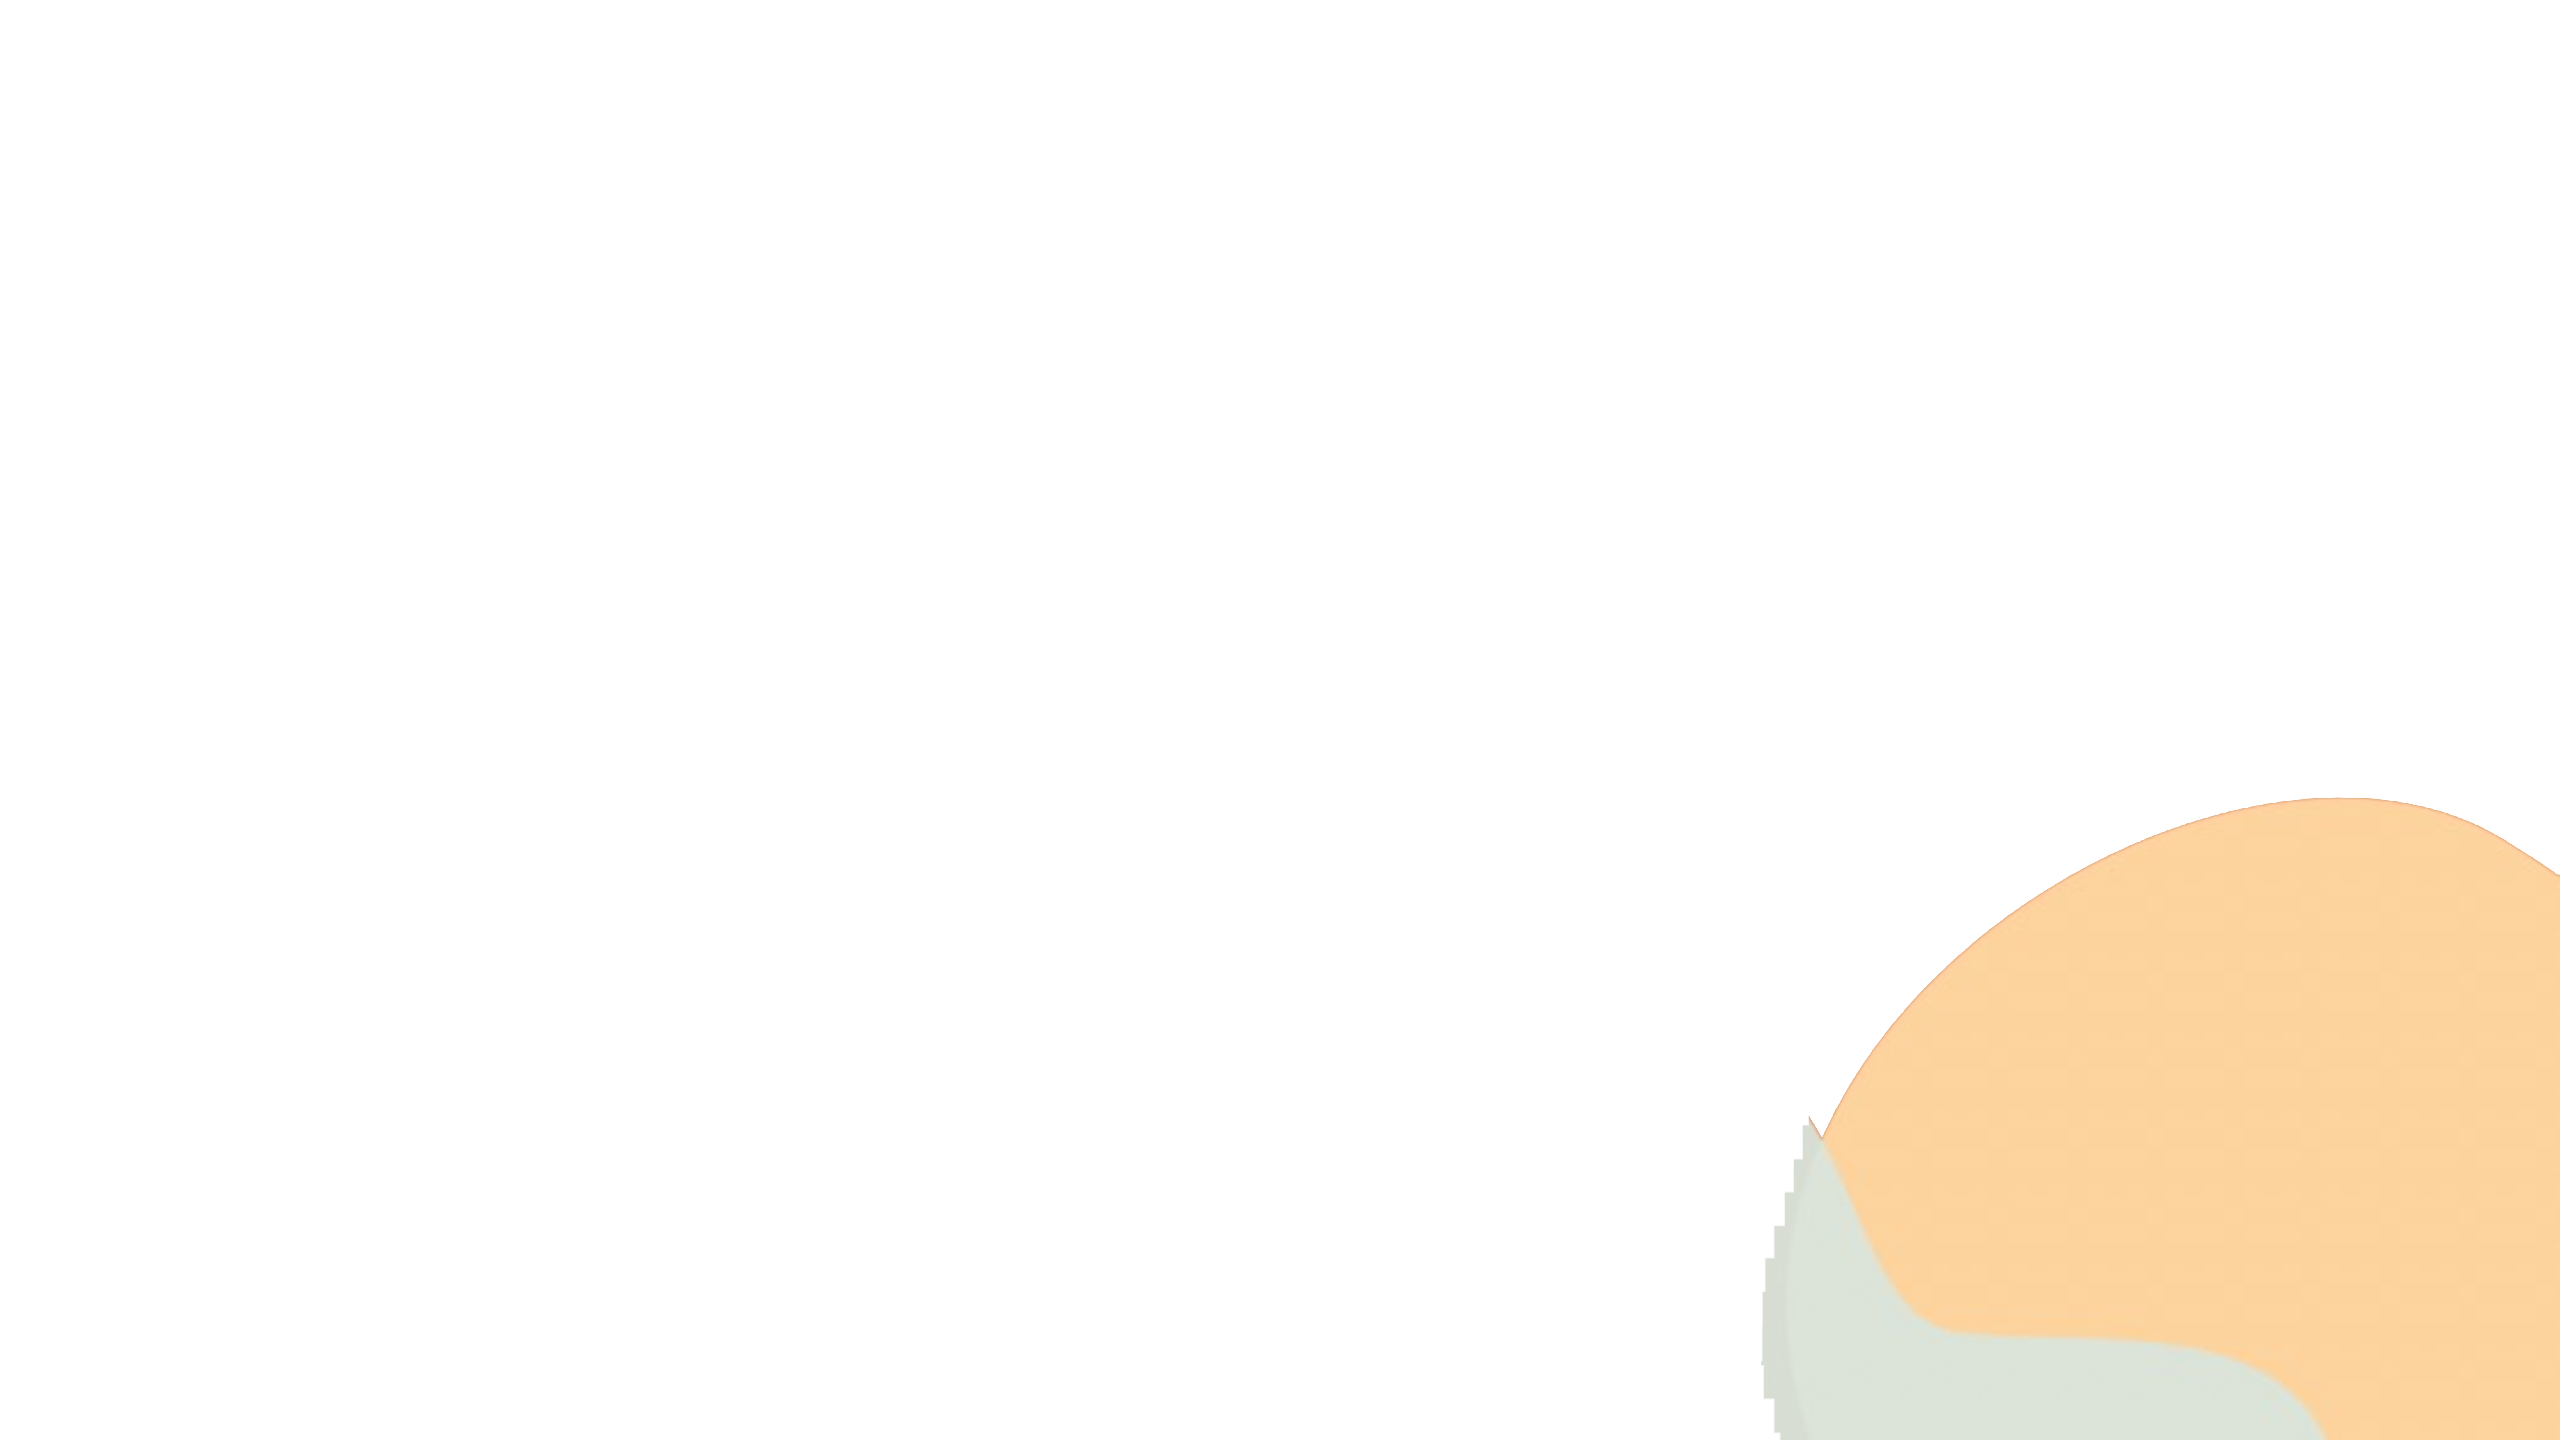
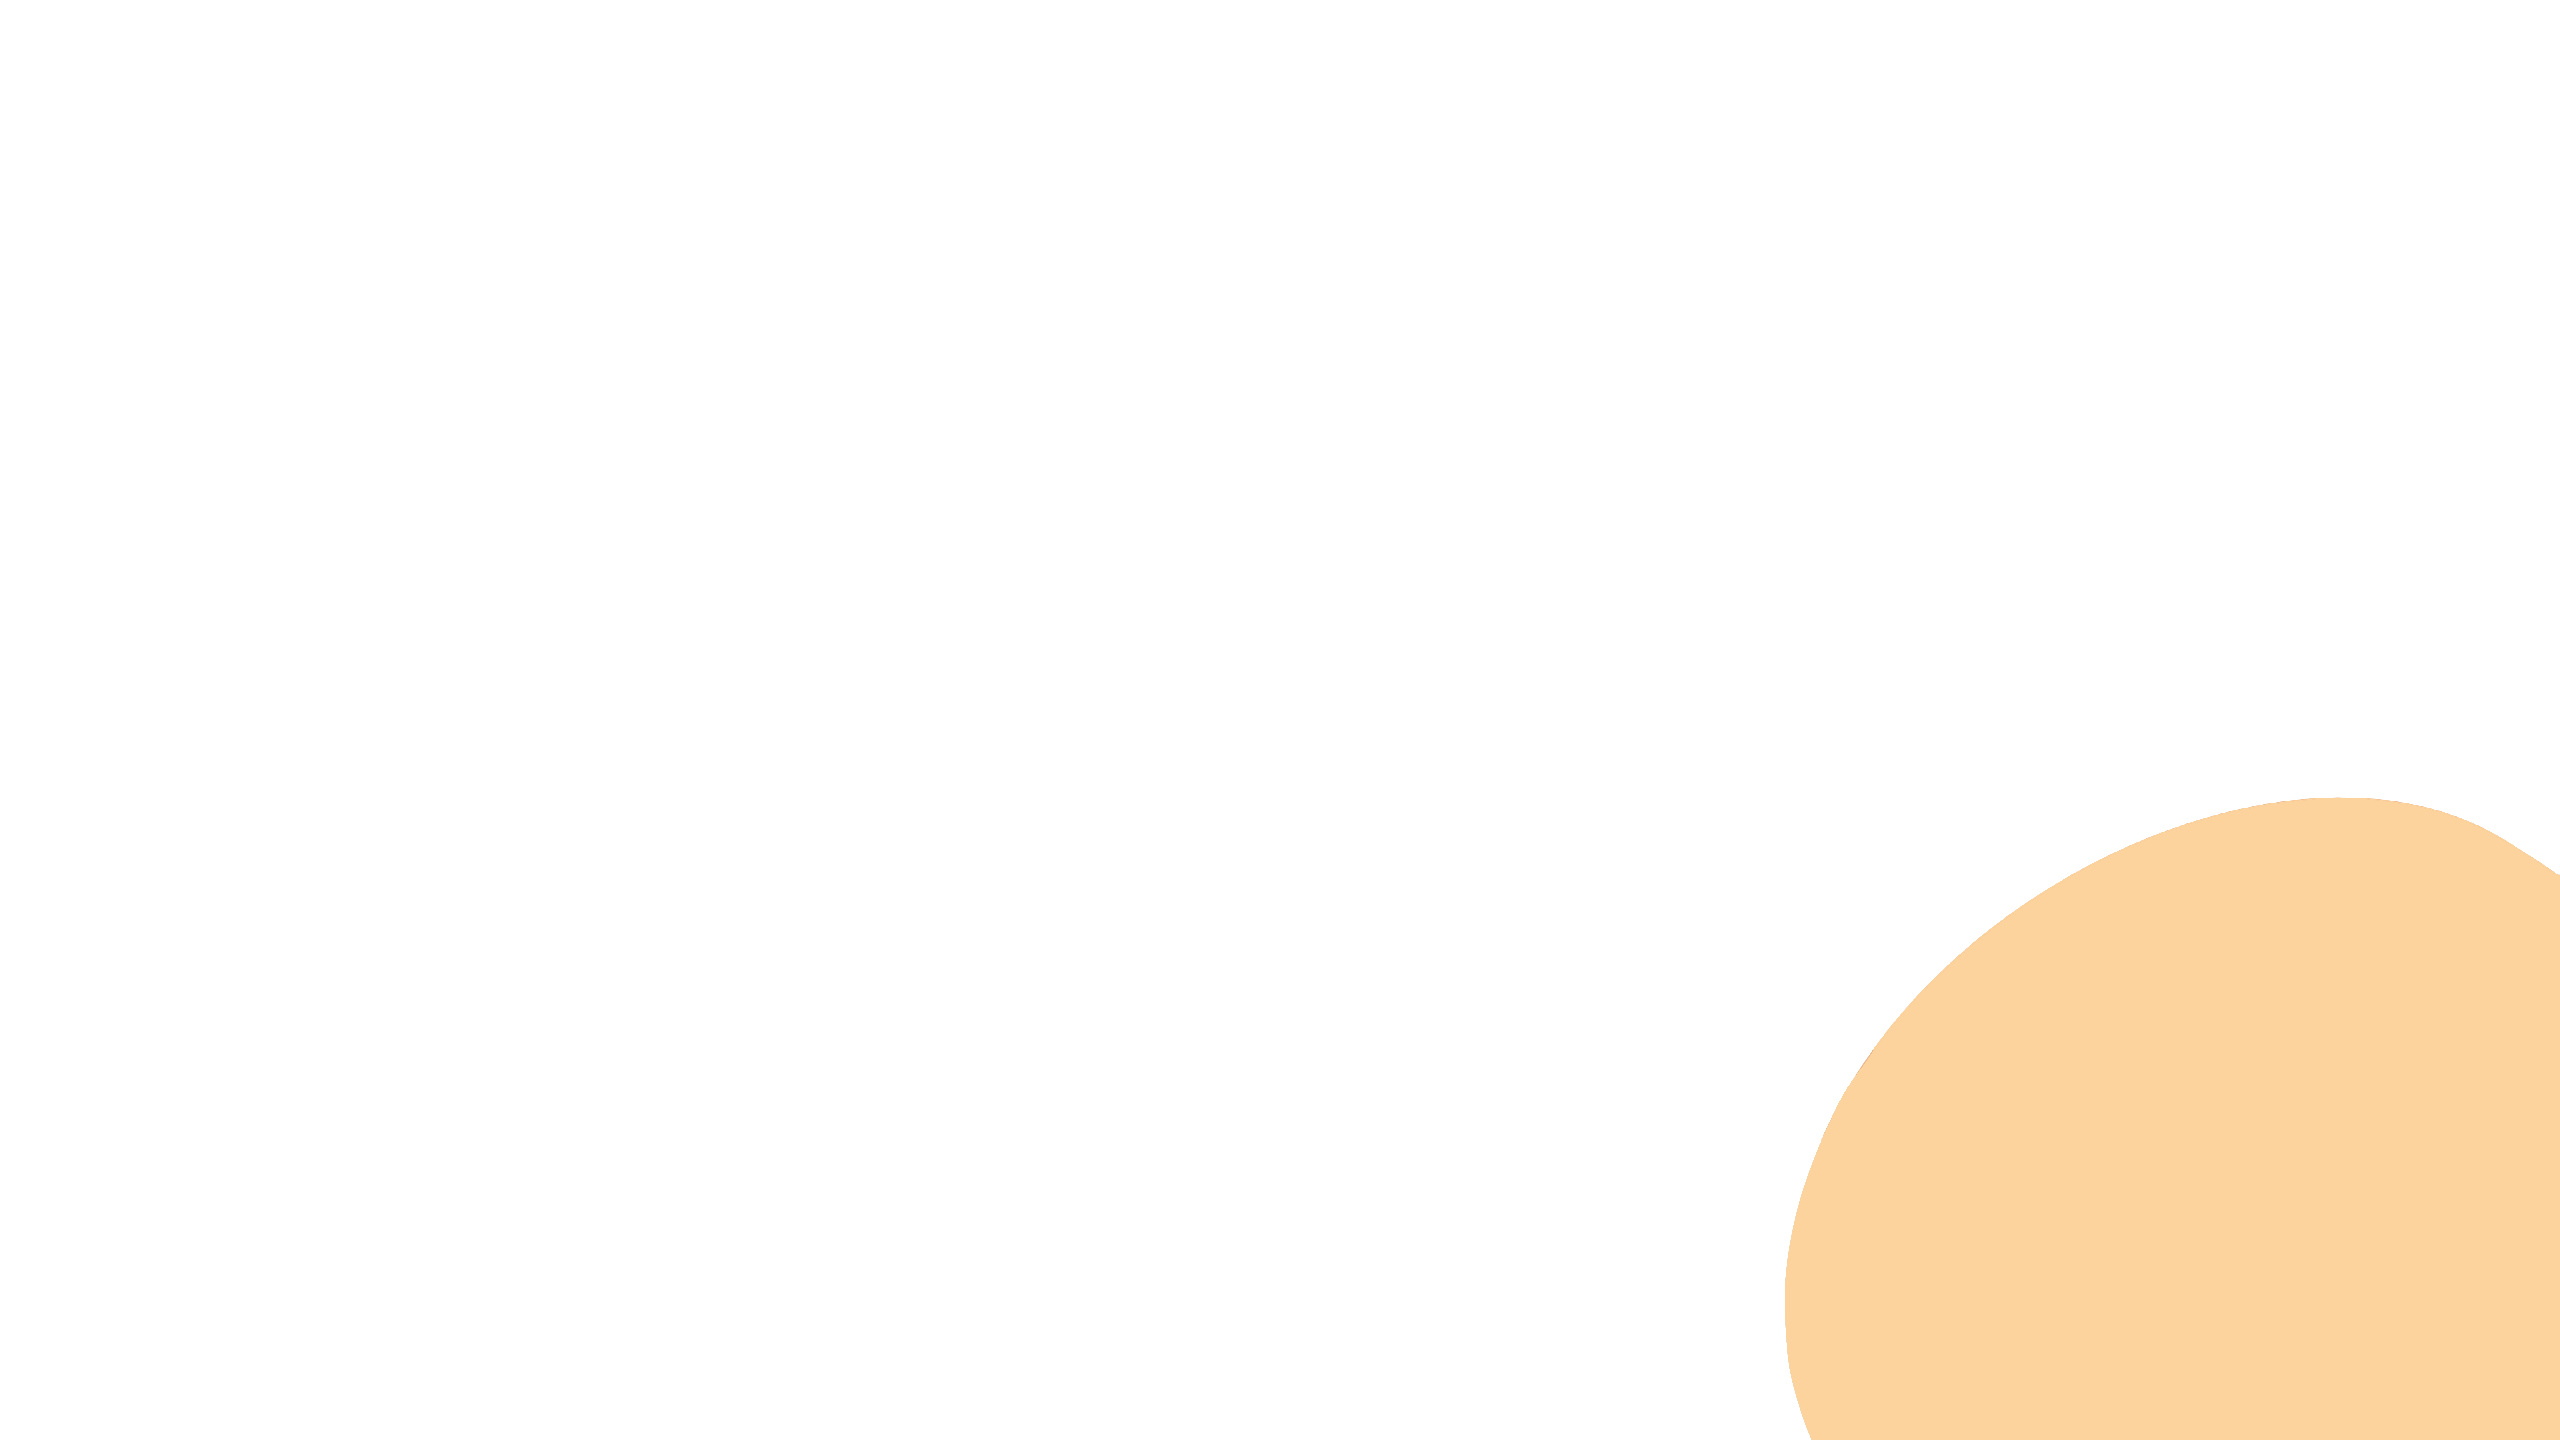
add HERO section design:
images and animations

Changed region(s): [[0.6875, 0.7812, 0.9062, 1.0]]

diff --git a/frontend/src/components/sections/Hero.tsx b/frontend/src/components/sections/Hero.tsx
@@ -5,6 +5,9 @@ import heroSpillTop from "../../assets/hero-spill-top.png";
 import heroSpillBottom from "../../assets/hero-spill-bottom.png";
 import heroSpillLeft from "../../assets/hero-spill-left.png";
 import heroCircleBottom from "../../assets/hero-circle-bottom.png";
+import heroCircleLeft from "../../assets/hero-circle-left.png";
+import heroRibbonsTop from "../../assets/hero-ribbons-top.png";
+import heroRibbonsBottom from "../../assets/hero-ribbons-bottom.png";
 
 const Hero: React.FC = () => {
   const { openModal } = useBooking();
@@ -35,9 +38,8 @@ const Hero: React.FC = () => {
           aria-hidden="true"
         />
       </div>
-
       <div
-        className={`absolute bottom-0 left-0 right-0 w-full z-[1] transition-transform duration-1000 ease-out delay-300 ${
+        className={`absolute bottom-0 left-0 right-0 w-full z-[1] transition-transform duration-1000 ease-out ${
           animated ? "translate-y-0" : "translate-y-full"
         }`}
       >
@@ -64,6 +66,7 @@ const Hero: React.FC = () => {
         />
       </div>
 
+      {/* Circle animations */}
       <div
         className={`absolute bottom-0 right-0 h-auto z-[1] transition-all duration-1000 ease-out delay-150 ${
           animated
@@ -75,6 +78,43 @@ const Hero: React.FC = () => {
           src={heroCircleBottom}
           alt=""
           className="w-full h-auto"
+          aria-hidden="true"
+        />
+      </div>
+      <div
+        className={`absolute left-0 h-auto z-[1] transition-all duration-1000 ease-out delay-150 ${
+          animated ? "translate-x-0" : "-translate-x-full"
+        }`}
+      >
+        <img
+          src={heroCircleLeft}
+          alt=""
+          className="w-full h-auto"
+          aria-hidden="true"
+        />
+      </div>
+      {/* Ribbon animations */}
+      <div
+        className={`absolute top-0 left-0 right-0 w-full z-[1] transition-transform duration-1000 ease-out delay-300 ${
+          animated ? "translate-y-0" : "-translate-y-full"
+        }`}
+      >
+        <img
+          src={heroRibbonsTop}
+          alt=""
+          className="w-full h-auto object-cover"
+          aria-hidden="true"
+        />
+      </div>
+      <div
+        className={`absolute bottom-0 left-0 right-0 w-full z-[1] transition-transform duration-1000 ease-out delay-300 ${
+          animated ? "translate-y-0" : "translate-y-full"
+        }`}
+      >
+        <img
+          src={heroRibbonsBottom}
+          alt=""
+          className="w-full h-auto object-cover"
           aria-hidden="true"
         />
       </div>
